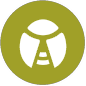
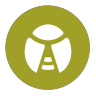
fix type sprite alignment

diff --git a/translate.js b/translate.js
@@ -67,6 +67,8 @@ var font_sizes = {
 	"Favorite": {
 		"English": 27,
 		"Français": 23,
+		"Español": 25,
+		"Español_Latino": 25,
 		"日本": 25,
 		"한국어": 22,
 		"Deutsch": 25,
